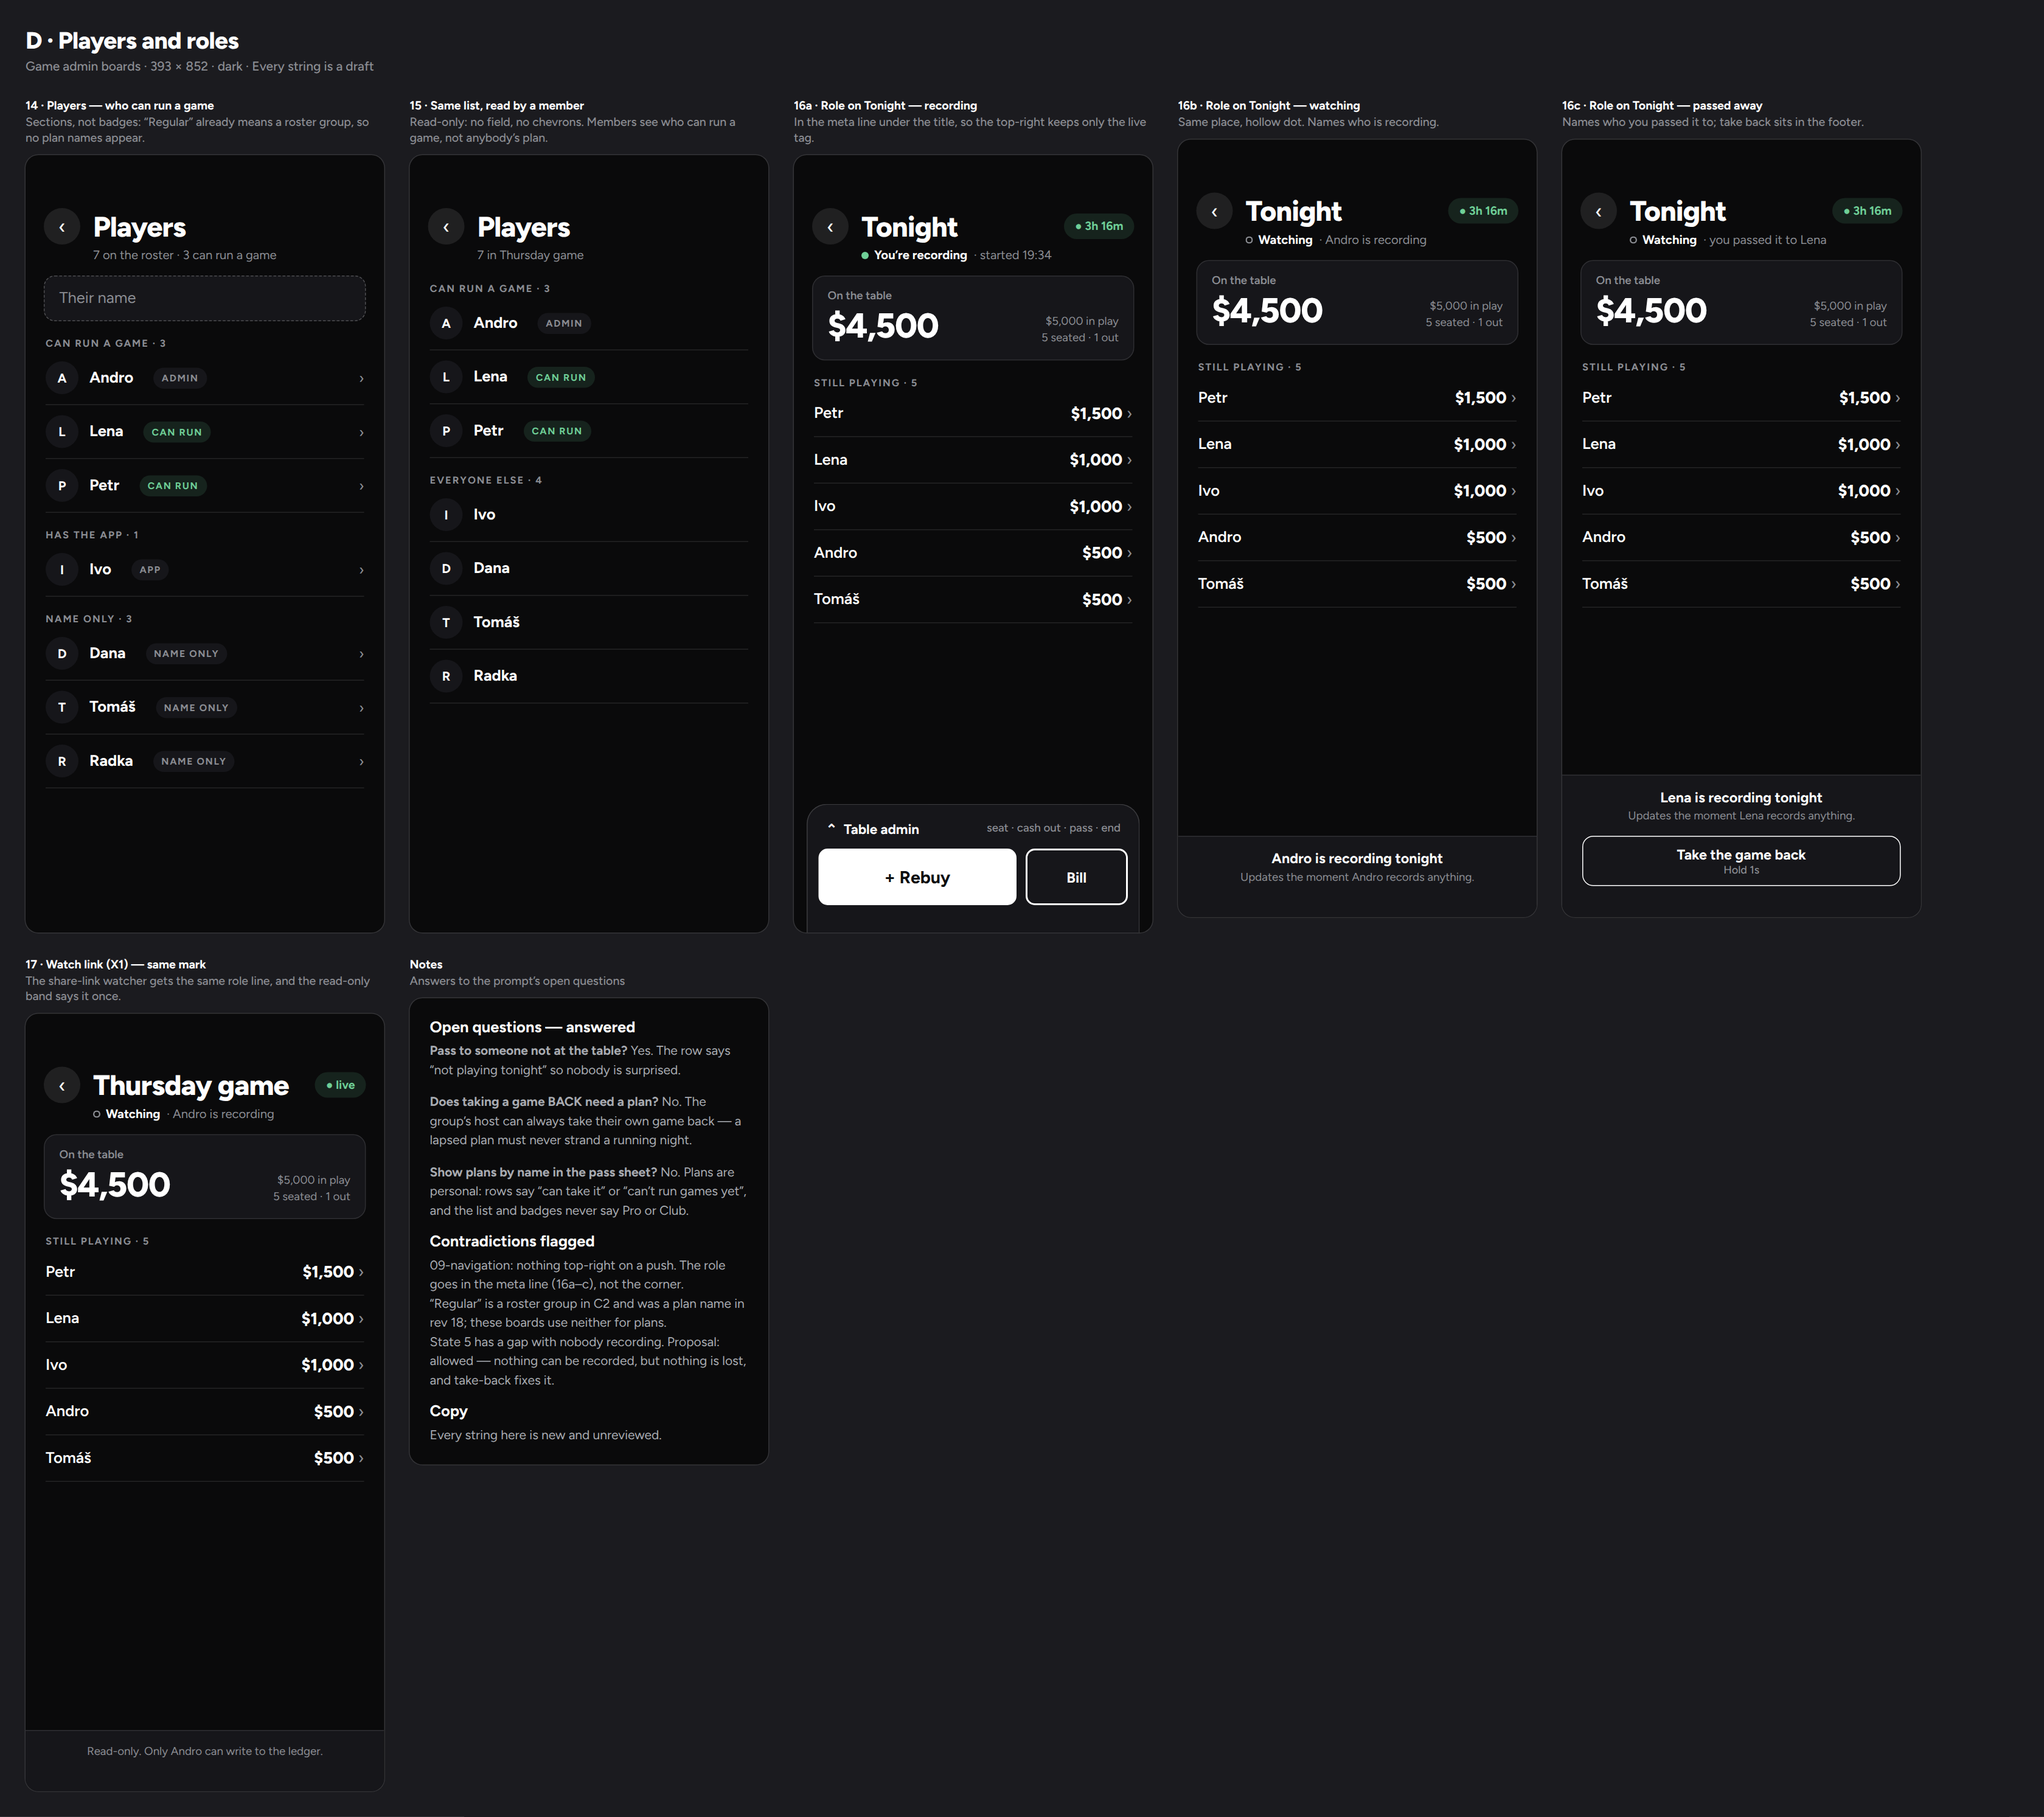
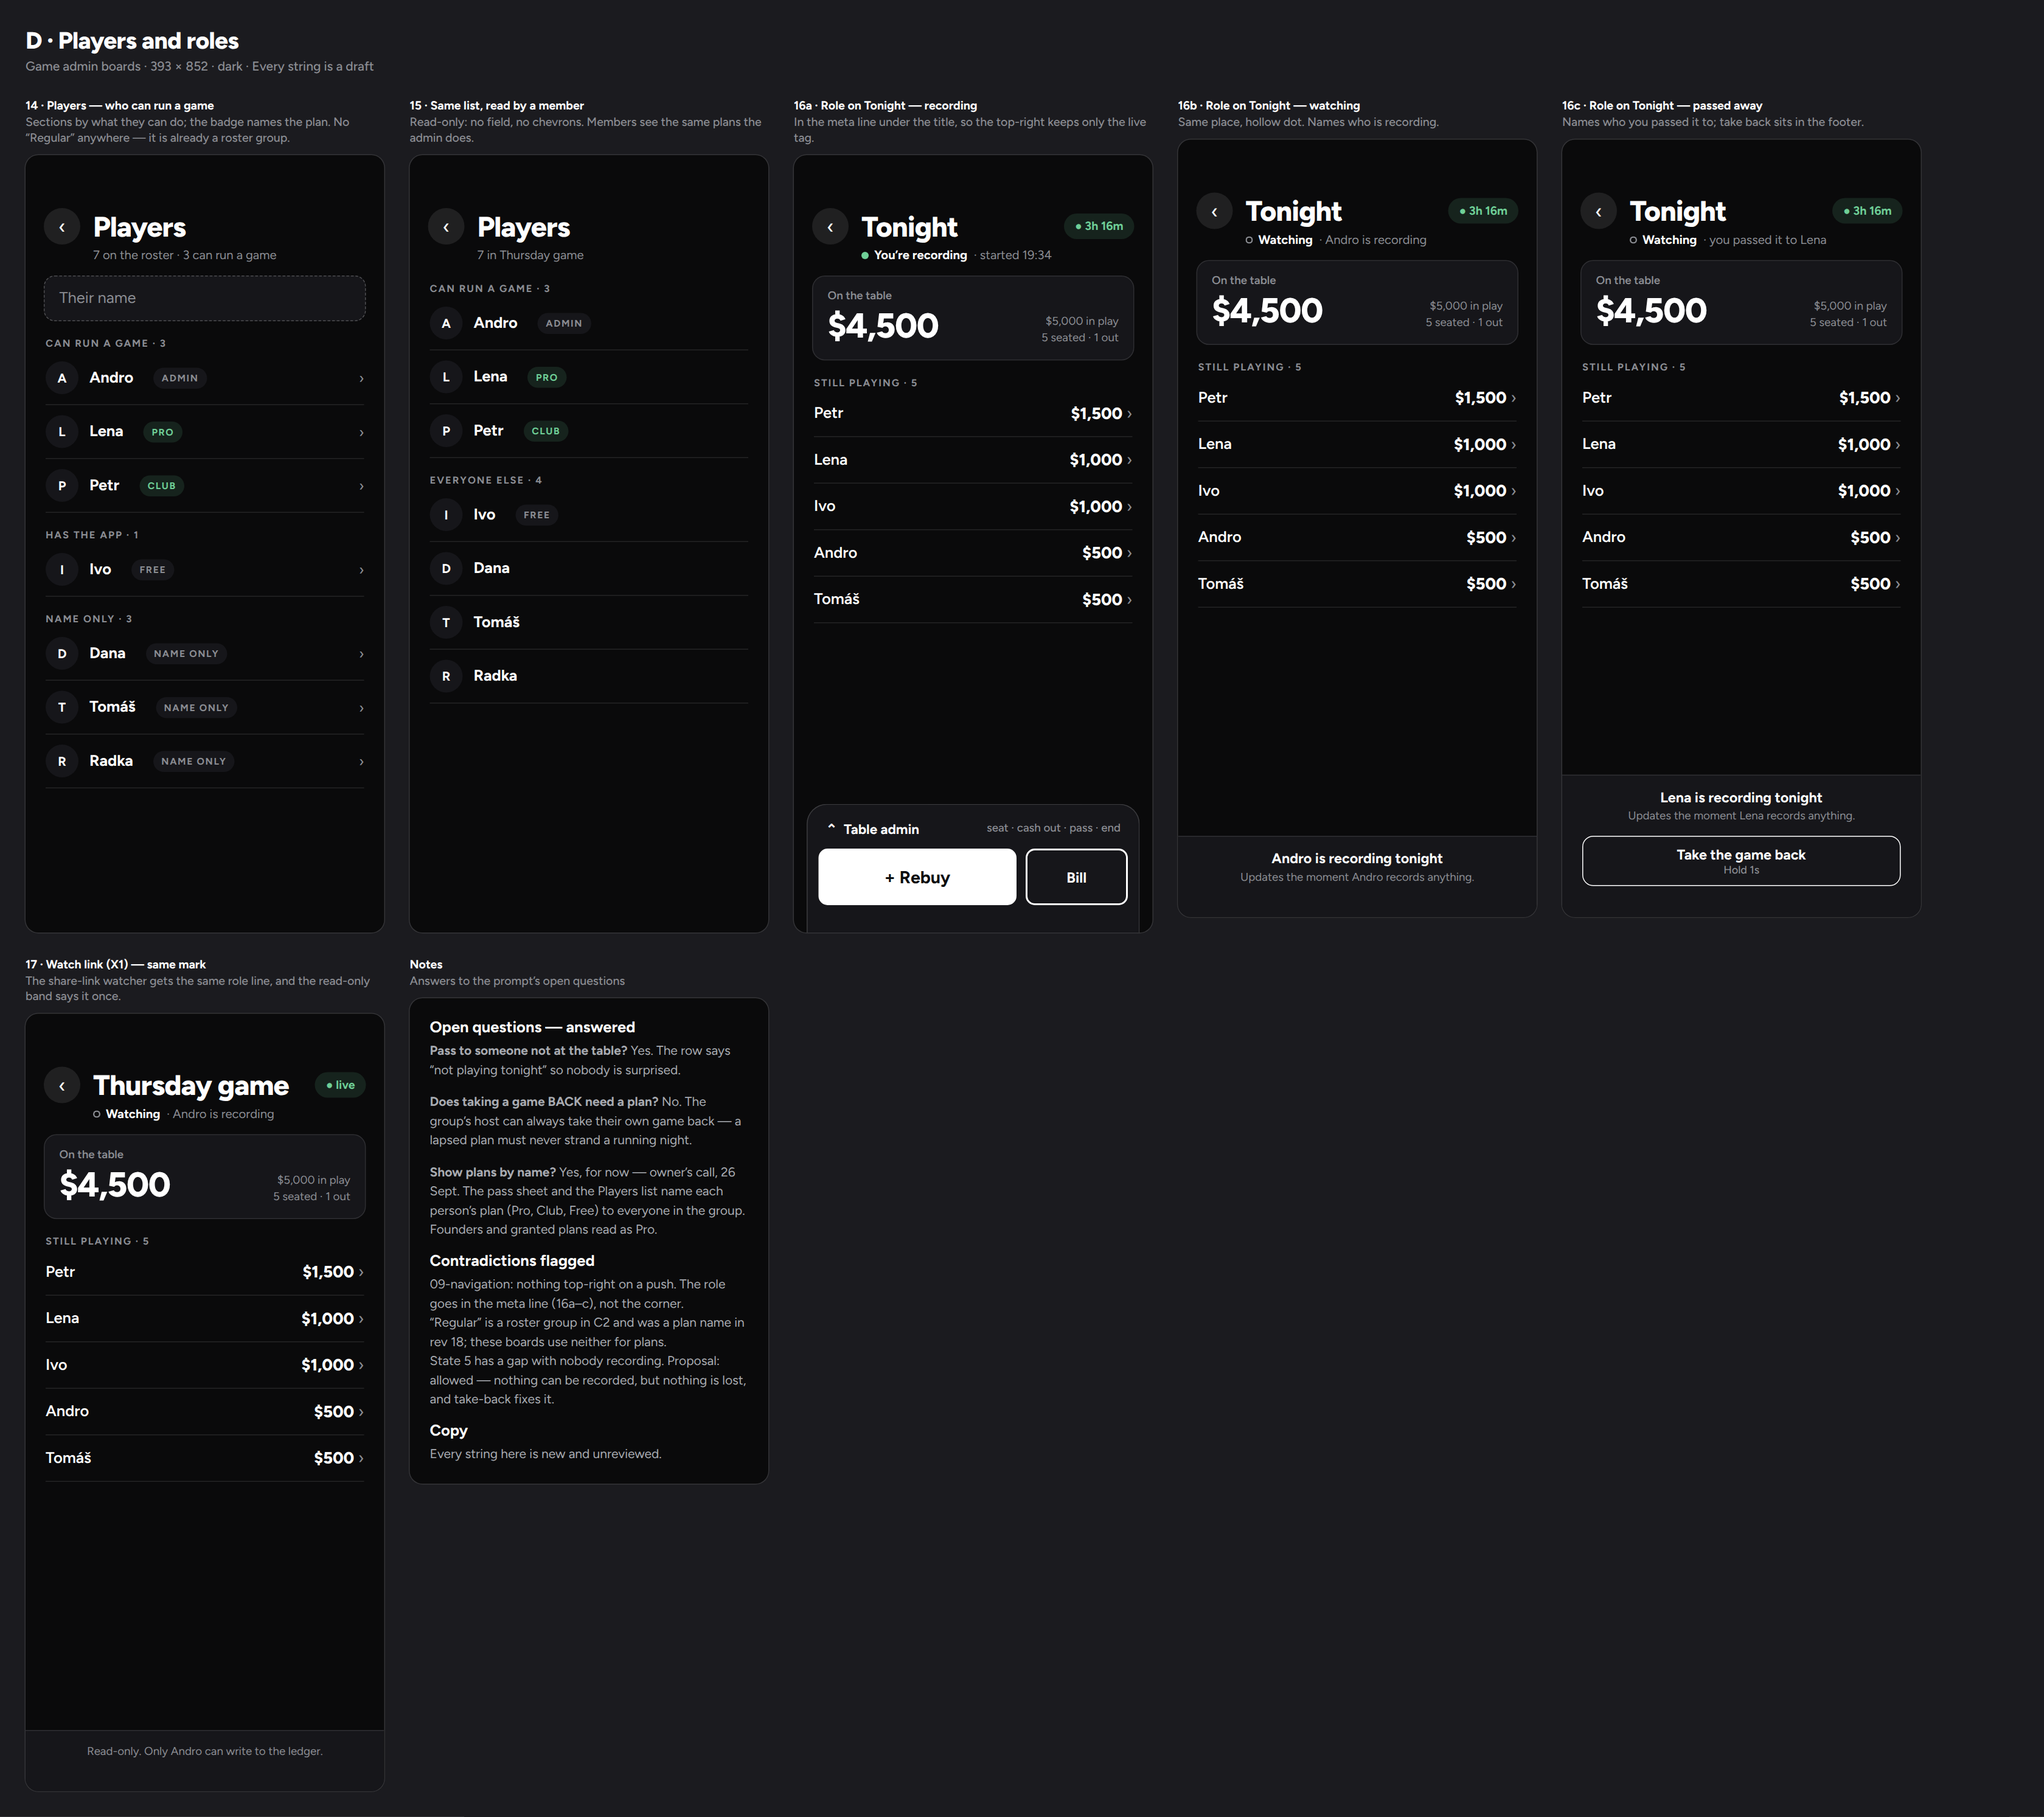
Boards: plans shown by name in the pass sheet and the Players list (owner, 26 Sept)
Claude-Session: https://claude.ai/code/session_01Bz2yVy9QihonFeAmsPVujP

Changed region(s): [[0.2188, 0.6227, 0.375, 0.8095], [0.0312, 0.0623, 0.1562, 0.0934], [0.0625, 0.2179, 0.0938, 0.2491]]

diff --git a/design/board-game-admin/boards.html b/design/board-game-admin/boards.html
@@ -121,15 +121,15 @@ const add=(sec,num,title,why,html)=>S.push({sec,num,title,why,html});
 // ---- A · passing
 add('A',1,'Table admin, with Pass the game','Between Money rules and End. The sub-line says what it does, not who can take it.',
   tonight(role.rec, drawer, true));
-add('A',2,'Pick who records','Plans stay private: a row says only whether they can take it, or why not.',
+add('A',2,'Pick who records','Each row names the person’s plan, then where they are tonight — or why they can’t take it.',
   tonight(role.rec, sheet('Pass the game',
-    pick('Lena','at the table','on')+pick('Petr','at the table')+pick('Dana','not playing tonight')+
-    pick('Ivo','can’t run games yet','off')+pick('Tomáš','no app yet · invite first','off')+
+    pick('Lena','Pro · at the table','on')+pick('Petr','Club · at the table')+pick('Dana','Pro · not playing tonight')+
+    pick('Ivo','Free · needs Pro to run a game','off')+pick('Tomáš','no app yet · invite first','off')+
     `<div class="note">Lena records from the moment you pass. You follow along, and can take it back from here any time. Nothing recorded on either phone is lost.</div><div class="primary">Pass to Lena</div>`,
     'Anyone with the app and a Pro plan can take it.'), true));
 add('A',3,'Nobody can take it','The incentive lives here — one line on what would make somebody eligible, and a share, never a purchase for someone else.',
   tonight(role.rec, sheet('Nobody can take it yet',
-    pick('Lena','can’t run games yet','off')+pick('Ivo','can’t run games yet','off')+pick('Tomáš','no app yet · invite first','off')+
+    pick('Lena','Free · needs Pro to run a game','off')+pick('Ivo','Free · needs Pro to run a game','off')+pick('Tomáš','no app yet · invite first','off')+
     `<div class="note">Running a game needs Pro. Anyone who goes Pro on their own phone shows up here straight away.</div>
      <div class="chip">↗ Ask Lena to go Pro</div>
      <div class="secondary" style="margin-top:18px">Keep recording</div>`,
@@ -203,26 +203,26 @@ add('C',13,'The plan list — the rule','Free first, already yours (muted, outli
    <div class="note">Primary reads “Choose a plan…” (blocked) until a paid row is tapped, then names it: “Start Pro · $4.99/mo”.</div></div>`);
 
 // ---- D · players and roles
-add('D',14,'Players — who can run a game','Sections, not badges: “Regular” already means a roster group, so no plan names appear.',
+add('D',14,'Players — who can run a game','Sections by what they can do; the badge names the plan. No “Regular” anywhere — it is already a roster group.',
   `<div class="phone">${hdr('Players','')}<div class="meta">7 on the roster · 3 can run a game</div><div class="field">Their name</div>
    <div class="sec">Can run a game · 3</div>
    <div class="prow"><div class="av">A</div><span class="nm">Andro</span><span class="badge">ADMIN</span><span class="ch">›</span></div>
-   <div class="prow"><div class="av">L</div><span class="nm">Lena</span><span class="badge go">CAN RUN</span><span class="ch">›</span></div>
-   <div class="prow"><div class="av">P</div><span class="nm">Petr</span><span class="badge go">CAN RUN</span><span class="ch">›</span></div>
+   <div class="prow"><div class="av">L</div><span class="nm">Lena</span><span class="badge go">PRO</span><span class="ch">›</span></div>
+   <div class="prow"><div class="av">P</div><span class="nm">Petr</span><span class="badge go">CLUB</span><span class="ch">›</span></div>
    <div class="sec">Has the app · 1</div>
-   <div class="prow"><div class="av">I</div><span class="nm">Ivo</span><span class="badge">APP</span><span class="ch">›</span></div>
+   <div class="prow"><div class="av">I</div><span class="nm">Ivo</span><span class="badge">FREE</span><span class="ch">›</span></div>
    <div class="sec">Name only · 3</div>
    <div class="prow"><div class="av">D</div><span class="nm">Dana</span><span class="badge">NAME ONLY</span><span class="ch">›</span></div>
    <div class="prow"><div class="av">T</div><span class="nm">Tomáš</span><span class="badge">NAME ONLY</span><span class="ch">›</span></div>
    <div class="prow"><div class="av">R</div><span class="nm">Radka</span><span class="badge">NAME ONLY</span><span class="ch">›</span></div></div>`);
-add('D',15,'Same list, read by a member','Read-only: no field, no chevrons. Members see who can run a game, not anybody’s plan.',
+add('D',15,'Same list, read by a member','Read-only: no field, no chevrons. Members see the same plans the admin does.',
   `<div class="phone">${hdr('Players','')}<div class="meta">7 in Thursday game</div>
    <div class="sec" style="margin-top:22px">Can run a game · 3</div>
    <div class="prow"><div class="av">A</div><span class="nm">Andro</span><span class="badge">ADMIN</span></div>
-   <div class="prow"><div class="av">L</div><span class="nm">Lena</span><span class="badge go">CAN RUN</span></div>
-   <div class="prow"><div class="av">P</div><span class="nm">Petr</span><span class="badge go">CAN RUN</span></div>
+   <div class="prow"><div class="av">L</div><span class="nm">Lena</span><span class="badge go">PRO</span></div>
+   <div class="prow"><div class="av">P</div><span class="nm">Petr</span><span class="badge go">CLUB</span></div>
    <div class="sec">Everyone else · 4</div>
-   <div class="prow"><div class="av">I</div><span class="nm">Ivo</span></div><div class="prow"><div class="av">D</div><span class="nm">Dana</span></div>
+   <div class="prow"><div class="av">I</div><span class="nm">Ivo</span><span class="badge">FREE</span></div><div class="prow"><div class="av">D</div><span class="nm">Dana</span></div>
    <div class="prow"><div class="av">T</div><span class="nm">Tomáš</span></div><div class="prow"><div class="av">R</div><span class="nm">Radka</span></div></div>`);
 add('D','16a','Role on Tonight — recording','In the meta line under the title, so the top-right keeps only the live tag.',
   tonight(role.rec, dockClosed()));
@@ -237,7 +237,7 @@ const QA=`<div class="qa">
 <h4>Open questions — answered</h4>
 <p><b>Pass to someone not at the table?</b> Yes. The row says “not playing tonight” so nobody is surprised.</p>
 <h4></h4><p><b>Does taking a game BACK need a plan?</b> No. The group’s host can always take their own game back — a lapsed plan must never strand a running night.</p>
-<h4></h4><p><b>Show plans by name in the pass sheet?</b> No. Plans are personal: rows say “can take it” or “can’t run games yet”, and the list and badges never say Pro or Club.</p>
+<h4></h4><p><b>Show plans by name?</b> Yes, for now — owner’s call, 26 Sept. The pass sheet and the Players list name each person’s plan (Pro, Club, Free) to everyone in the group. Founders and granted plans read as Pro.</p>
 <h4>Contradictions flagged</h4>
 <p>09-navigation: nothing top-right on a push. The role goes in the meta line (16a–c), not the corner.</p>
 <p>“Regular” is a roster group in C2 and was a plan name in rev 18; these boards use neither for plans.</p>
